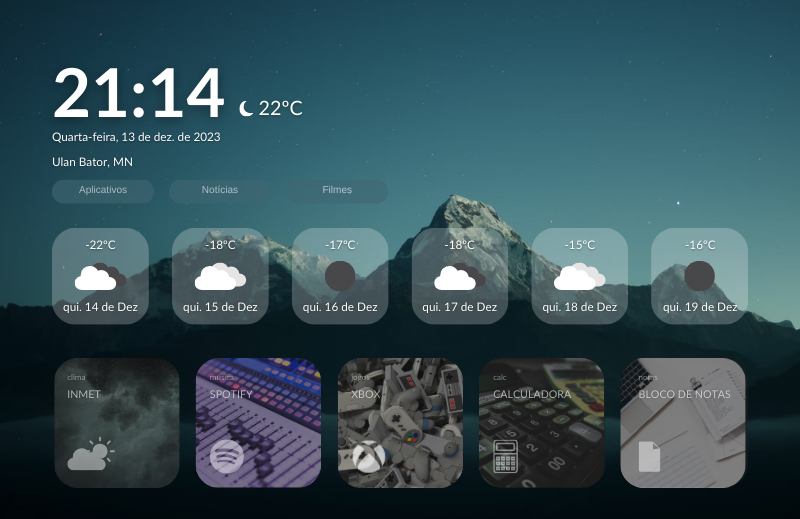
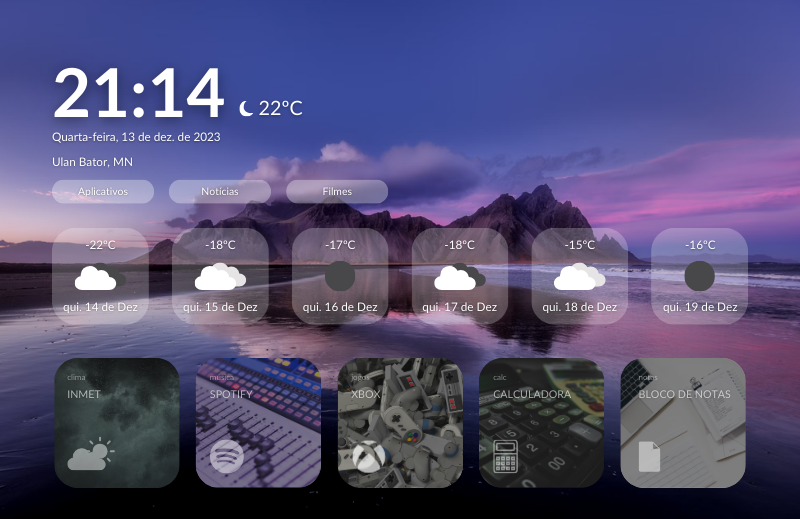
background update

diff --git a/style.css b/style.css
@@ -117,7 +117,7 @@ body {
   font-weight: 300;
   display: flex;
   justify-content: center;
-  background-image: url('https://images.unsplash.com/photo-1485470733090-0aae1788d5af?q=80&w=2117&auto=format&fit=crop&ixlib=rb-4.0.3&ixid=M3wxMjA3fDB8MHxwaG90by1wYWdlfHx8fGVufDB8fHx8fA%3D%3D');
+  background-image: url('https://images.unsplash.com/photo-1511300636408-a63a89df3482?q=80&w=2070&auto=format&fit=crop&ixlib=rb-4.0.3&ixid=M3wxMjA3fDB8MHxwaG90by1wYWdlfHx8fGVufDB8fHx8fA%3D%3D');
   background-size: cover;
   background-position: center;
   background-repeat: no-repeat;
